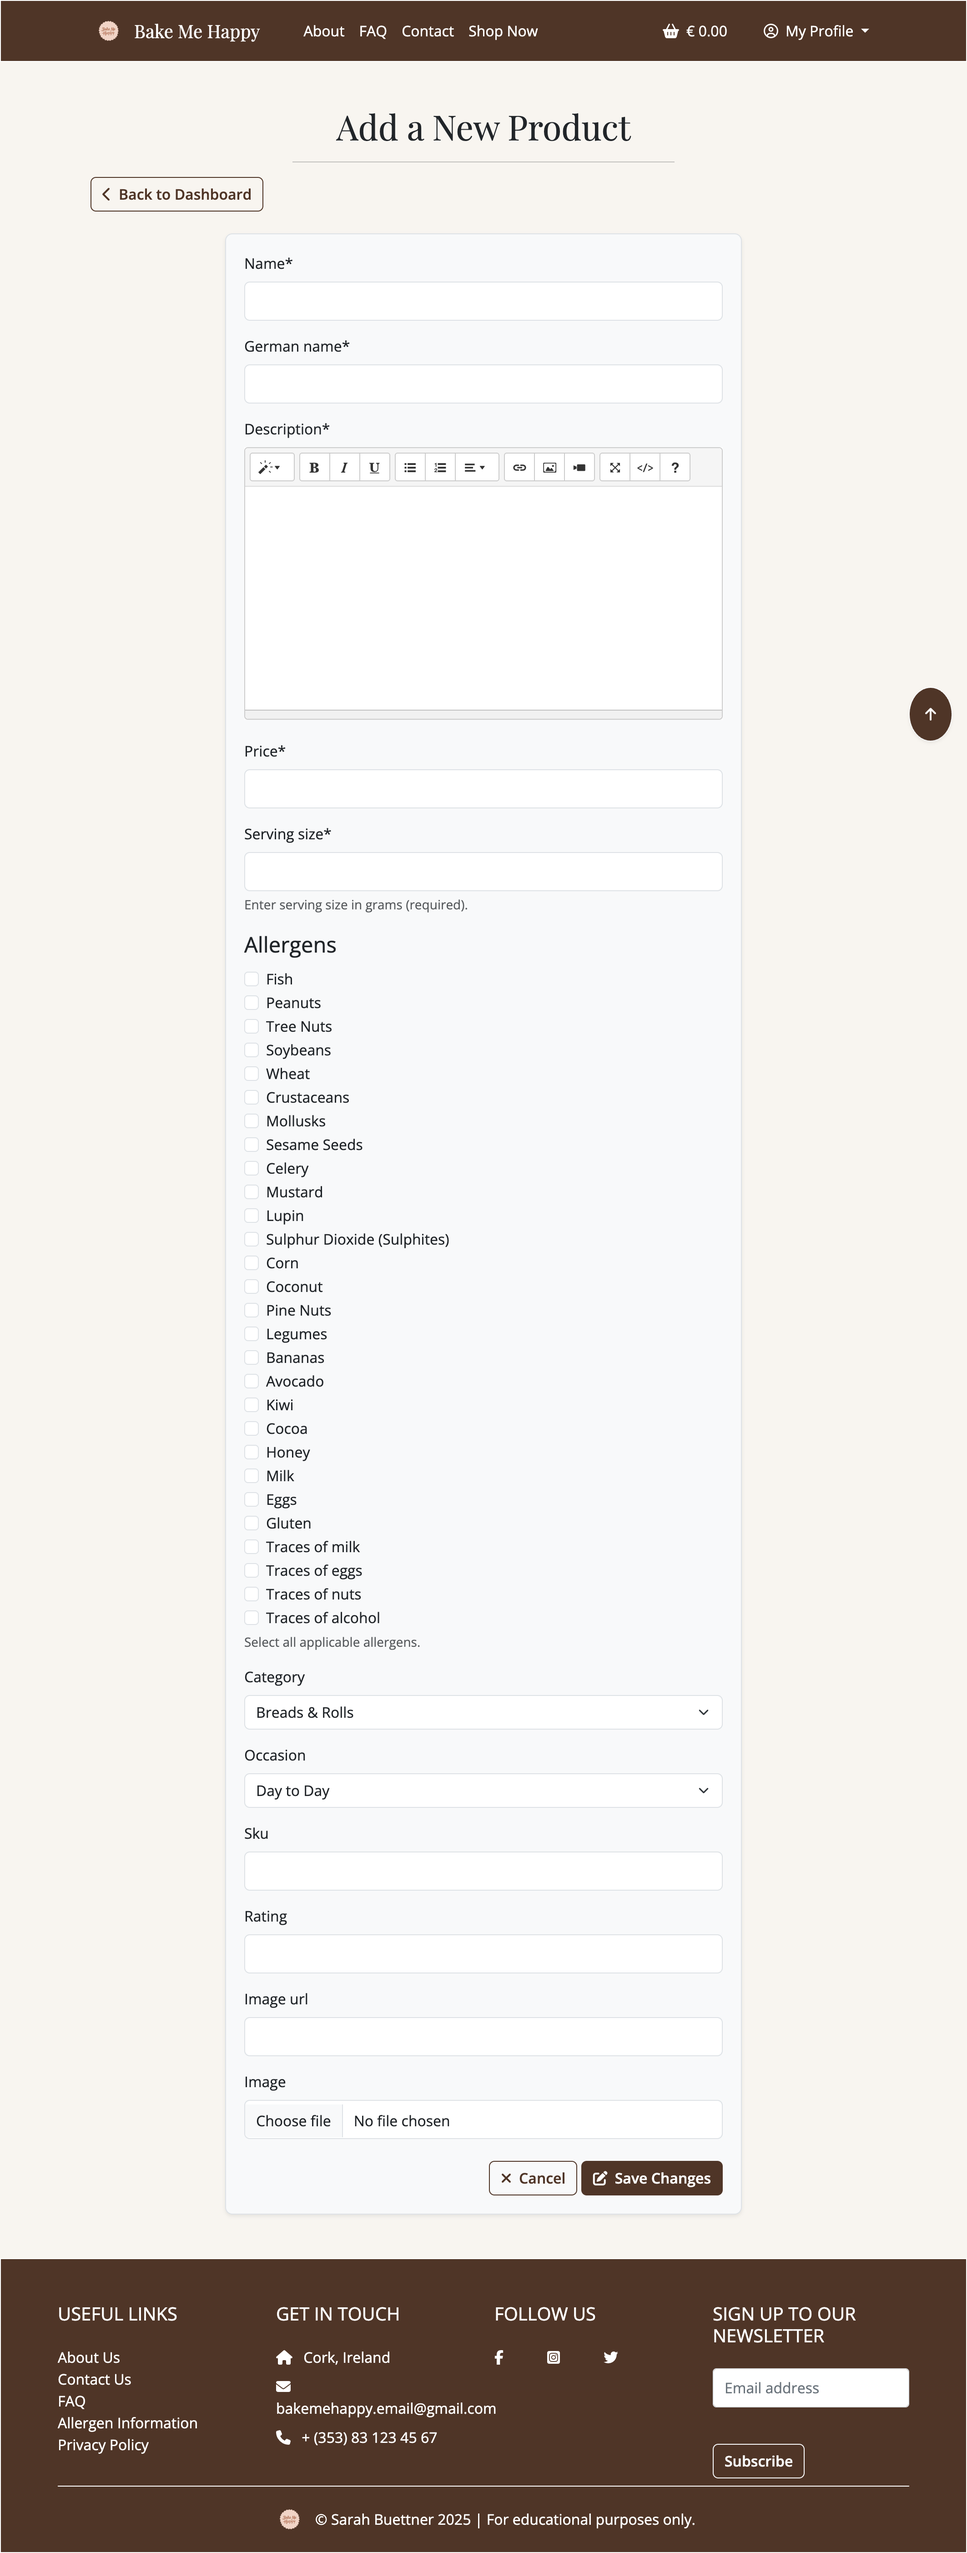
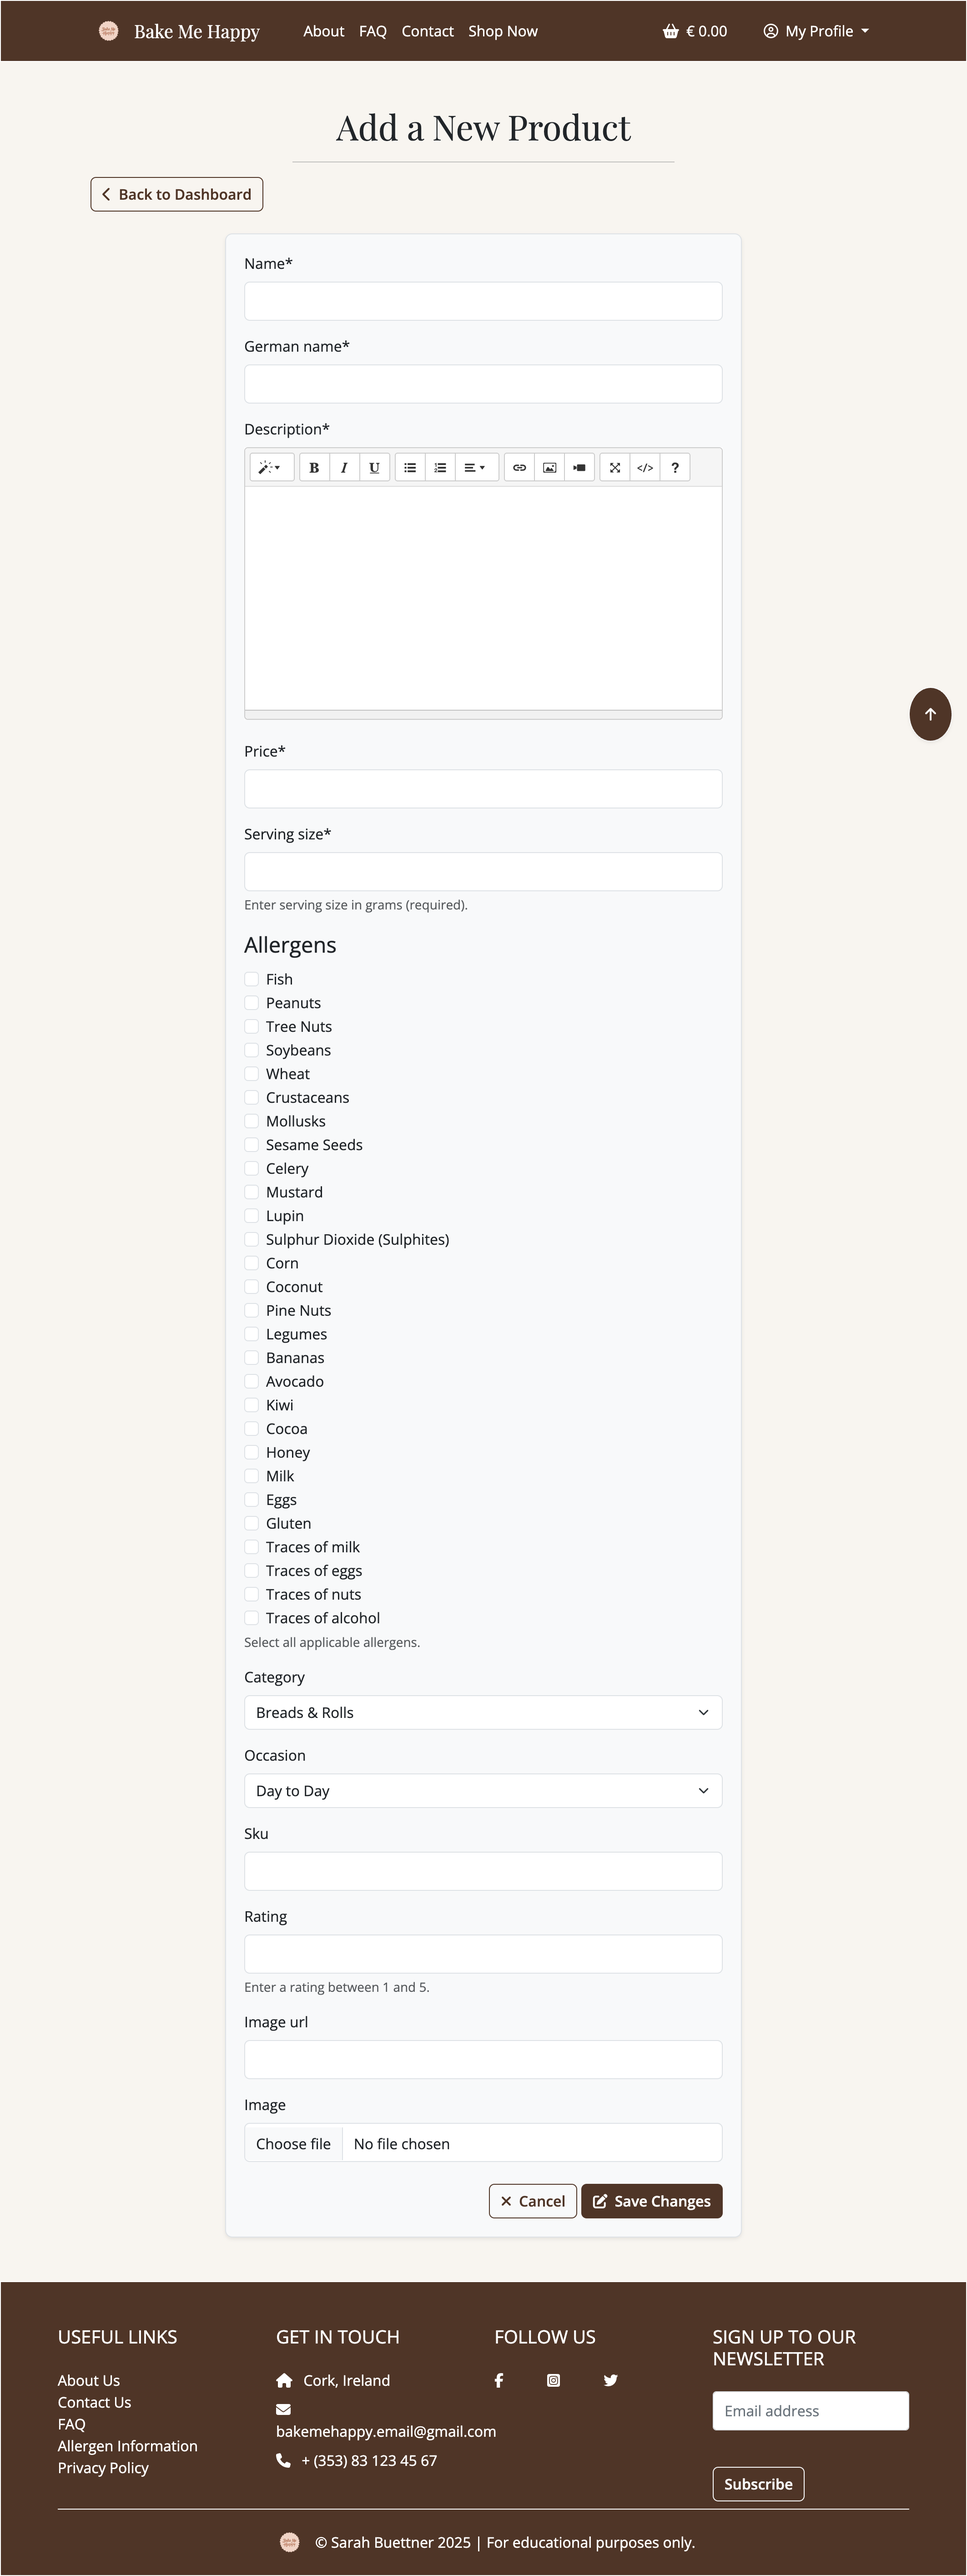
fix: update product rating field to allow input 1-5

diff --git a/products/migrations/0005_alter_product_rating.py b/products/migrations/0005_alter_product_rating.py
@@ -1,0 +1,19 @@
+# Generated by Django 4.2.18 on 2025-03-28 23:15
+
+import django.core.validators
+from django.db import migrations, models
+
+
+class Migration(migrations.Migration):
+
+    dependencies = [
+        ('products', '0004_auto_20250328_2212'),
+    ]
+
+    operations = [
+        migrations.AlterField(
+            model_name='product',
+            name='rating',
+            field=models.DecimalField(blank=True, decimal_places=2, max_digits=6, null=True, validators=[django.core.validators.MinValueValidator(1), django.core.validators.MaxValueValidator(5)]),
+        ),
+    ]

diff --git a/products/models.py b/products/models.py
@@ -1,4 +1,5 @@
 from django.db import models
+from django.core.validators import MinValueValidator, MaxValueValidator
 
 
 class Allergen(models.Model):
@@ -96,7 +97,11 @@ class Product(models.Model):
         max_digits=6,
         decimal_places=2,
         null=True,
-        blank=True
+        blank=True,
+        validators=[
+            MinValueValidator(1),
+            MaxValueValidator(5)
+        ]
     )
 
     image_url = models.URLField(max_length=1024, null=True, blank=True)

diff --git a/products/forms.py b/products/forms.py
@@ -28,6 +28,14 @@ class ProductForm(forms.ModelForm):
         widgets = {
             'description': SummernoteWidget(),
             'image': CustomClearableFileInput(),
+            'rating': forms.NumberInput(attrs={
+                'min': 1,
+                'max': 5,
+                'step': 0.1,
+            }),
+        }
+        help_texts = {
+            'rating': 'Enter a rating between 1 and 5.',
         }
 
     def __init__(self, *args, **kwargs):
